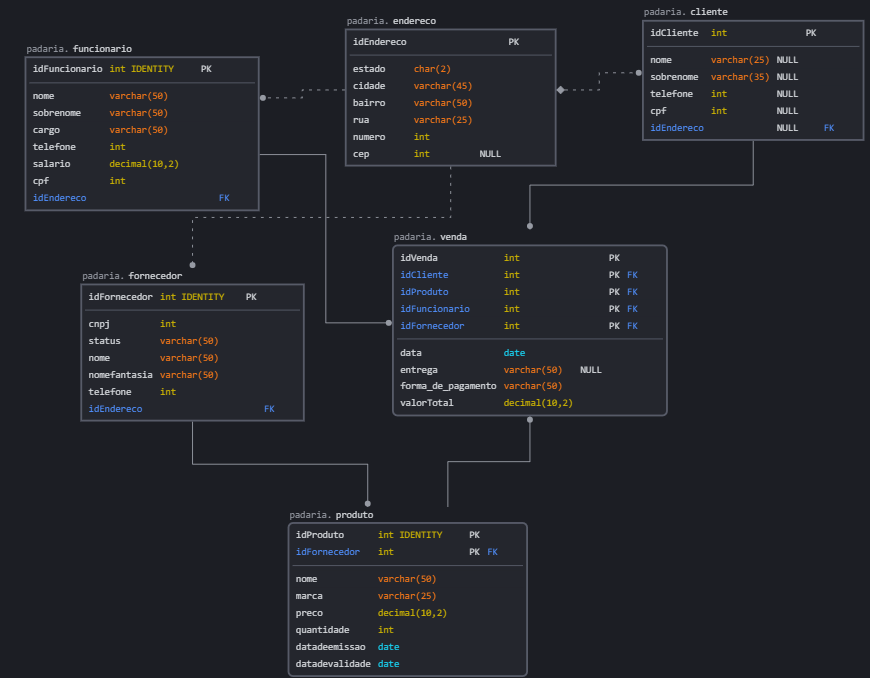
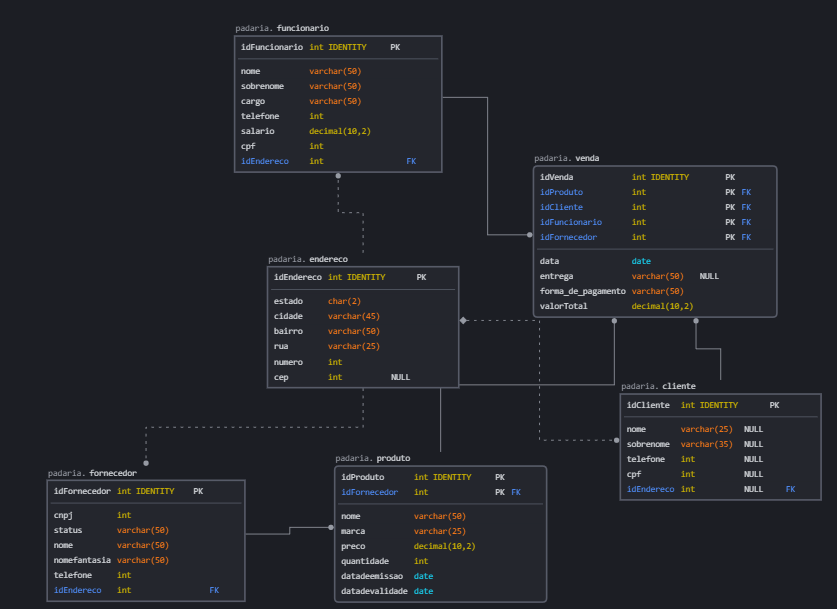
Update: Fiz atualização do banco de dados e montei um novo diagrama para seguirem

diff --git a/src/main.py b/src/main.py
@@ -1,76 +1,1 @@
-# Importação de bibliotecas/libs
-
-import employee
-import product
-import suppliers
-from tkinter import *
-import sqlite3
-
-funcionario = employee.employee()
-produtos = product.Product()
-Fornecedores = suppliers.Suppliers()
-
-# Criação do programa e interface
-
-
-class Application:
-    def __init__(self, master=None):
-        self.fontePadrao = ("Arial", "10")
-        self.primeiroContainer = Frame(master)
-        self.primeiroContainer["pady"] = 10
-        self.primeiroContainer.pack()
-
-        self.segundoContainer = Frame(master)
-        self.segundoContainer["padx"] = 20
-        self.segundoContainer.pack()
-
-        self.terceiroContainer = Frame(master)
-        self.terceiroContainer["padx"] = 20
-        self.terceiroContainer.pack()
-
-        self.quartoContainer = Frame(master)
-        self.quartoContainer["pady"] = 20
-        self.quartoContainer.pack()
-
-        self.titulo = Label(self.primeiroContainer, text="LOGIN IN")
-        self.titulo["font"] = ("Arial", "10", "bold")
-        self.titulo.pack()
-
-        self.nomeLabel = Label(self.segundoContainer,text="Nome", font=self.fontePadrao)
-        self.nomeLabel.pack(side=LEFT)
-
-        self.nome = Entry(self.segundoContainer)
-        self.nome["width"] = 30
-        self.nome["font"] = self.fontePadrao
-        self.nome.pack(side=LEFT)
-
-        self.senhaLabel = Label(self.terceiroContainer, text="Senha", font=self.fontePadrao)
-        self.senhaLabel.pack(side=LEFT)
-
-        self.senha = Entry(self.terceiroContainer)
-        self.senha["width"] = 30
-        self.senha["font"] = self.fontePadrao
-        self.senha["show"] = "*"
-        self.senha.pack(side=LEFT)
-
-        self.autenticar = Button(self.quartoContainer)
-        self.autenticar["text"] = "Autenticar"
-        self.autenticar["font"] = ("Calibri", "8")
-        self.autenticar["width"] = 12
-        self.autenticar["command"] = self.verificaSenha
-        self.autenticar.pack()
-
-        self.mensagem = Label(self.quartoContainer, text="", font=self.fontePadrao)
-        self.mensagem.pack()
-
-    # Método verificar senha
-    def verificaSenha(self):
-        usuario = self.nome.get()
-        senha = self.senha.get()
-        if usuario == "casa" and senha == "123":
-            self.mensagem["text"] = "Autenticado"
-        else:
-            self.mensagem["text"] = "Erro na autenticação"
-root = Tk()
-Application(root)
-root.mainloop()
+# vai precisar o qt designer para criar a interface grafica e o pyuic5 para converter o arquivo .ui para .py

diff --git a/database/connect.py b/database/connect.py
@@ -1,6 +1,6 @@
 import pyodbc as bd
 import os
-import getpass as gp
+from getpass import getpass
 
 class Connect:
     def __init__(self) -> None:
@@ -11,4 +11,10 @@ class Connect:
 
     def Login(self) -> None:
         self.username = str(input('Username: '))
-        self.password = str(input('Senha: '))
+        self.password = getpass('Password: ')
+
+        bd.connect(
+            f'DRIVER={{ODBC Driver 17 for SQL Server}};SERVER={self.server};DATABASE={self.database};UID={self.username};PWD={self.password}')
+
+
+Connect().Login()
